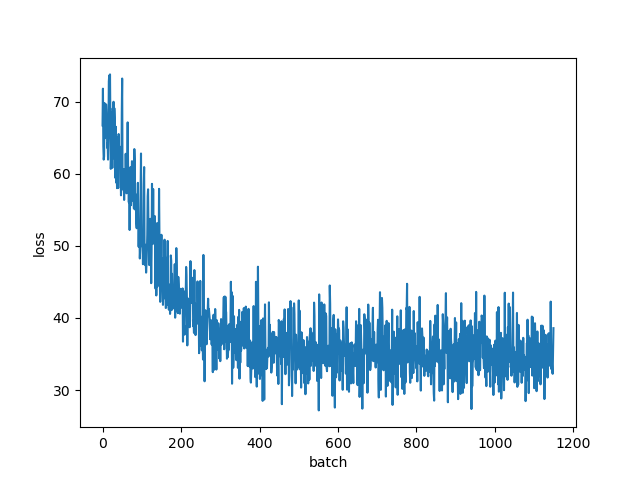
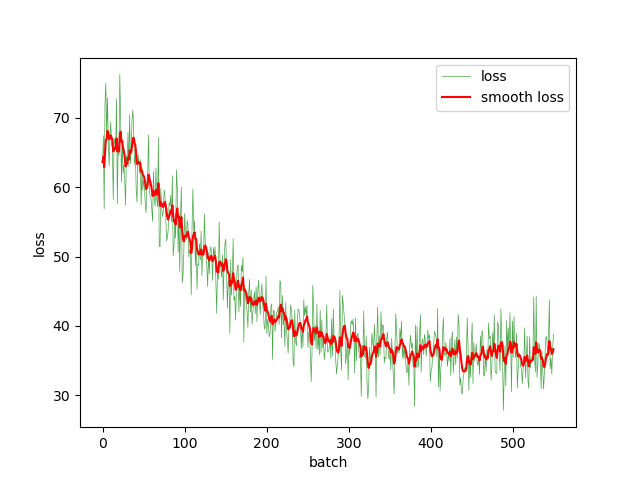
first

diff --git a/s2vt.py b/s2vt.py
@@ -38,7 +38,7 @@ model=CaptionGenerator(n_words=dataloader.vacabs.n_words,
 
 optimizer=tf.keras.optimizers.Adam(lr=args.lr)
 loss_history=[]
-loss_smooth,beta=[],0.8
+loss_smooth,beta,last_loss=[],0.8,0.
 start_time=time.time()
 for batch_idx in range(batch_nums):
     video_features,captions=dataloader.get_batch(batch_size=args.batch_size)
@@ -49,10 +49,11 @@ for batch_idx in range(batch_nums):
     optimizer.apply_gradients(grads_and_vars=zip(grads,model.variables))
 
     loss_history.append(loss.numpy())
-    if loss_smooth is []:
-        loss_smooth.append(0*beta+(1-beta)*loss.numpy())
+    if batch_idx==0:
+        loss_smooth.append(loss.numpy())
     else:
-        loss_smooth.append(loss_smooth[-1] * beta + (1 - beta) * loss.numpy())
+        loss_smooth.append(last_loss * beta + (1 - beta) * loss.numpy())
+    last_loss=loss_smooth[-1]
 
     if (batch_idx+1)%10==0:
         time_used=time.time()-start_time
@@ -63,7 +64,7 @@ for batch_idx in range(batch_nums):
         save_path=WEIGHT_SAVE_PATH+'/model_%d.h5' % (batch_idx+1)
         model.save_weights(save_path)
         print('save model weights to %s' % save_path)
-        plt.plot(loss_history,'g')
+        plt.plot(loss_history,'g',alpha=0.7,linewidth=0.5)
         plt.plot(loss_smooth,'r')
         plt.xlabel('batch')
         plt.ylabel('loss')
